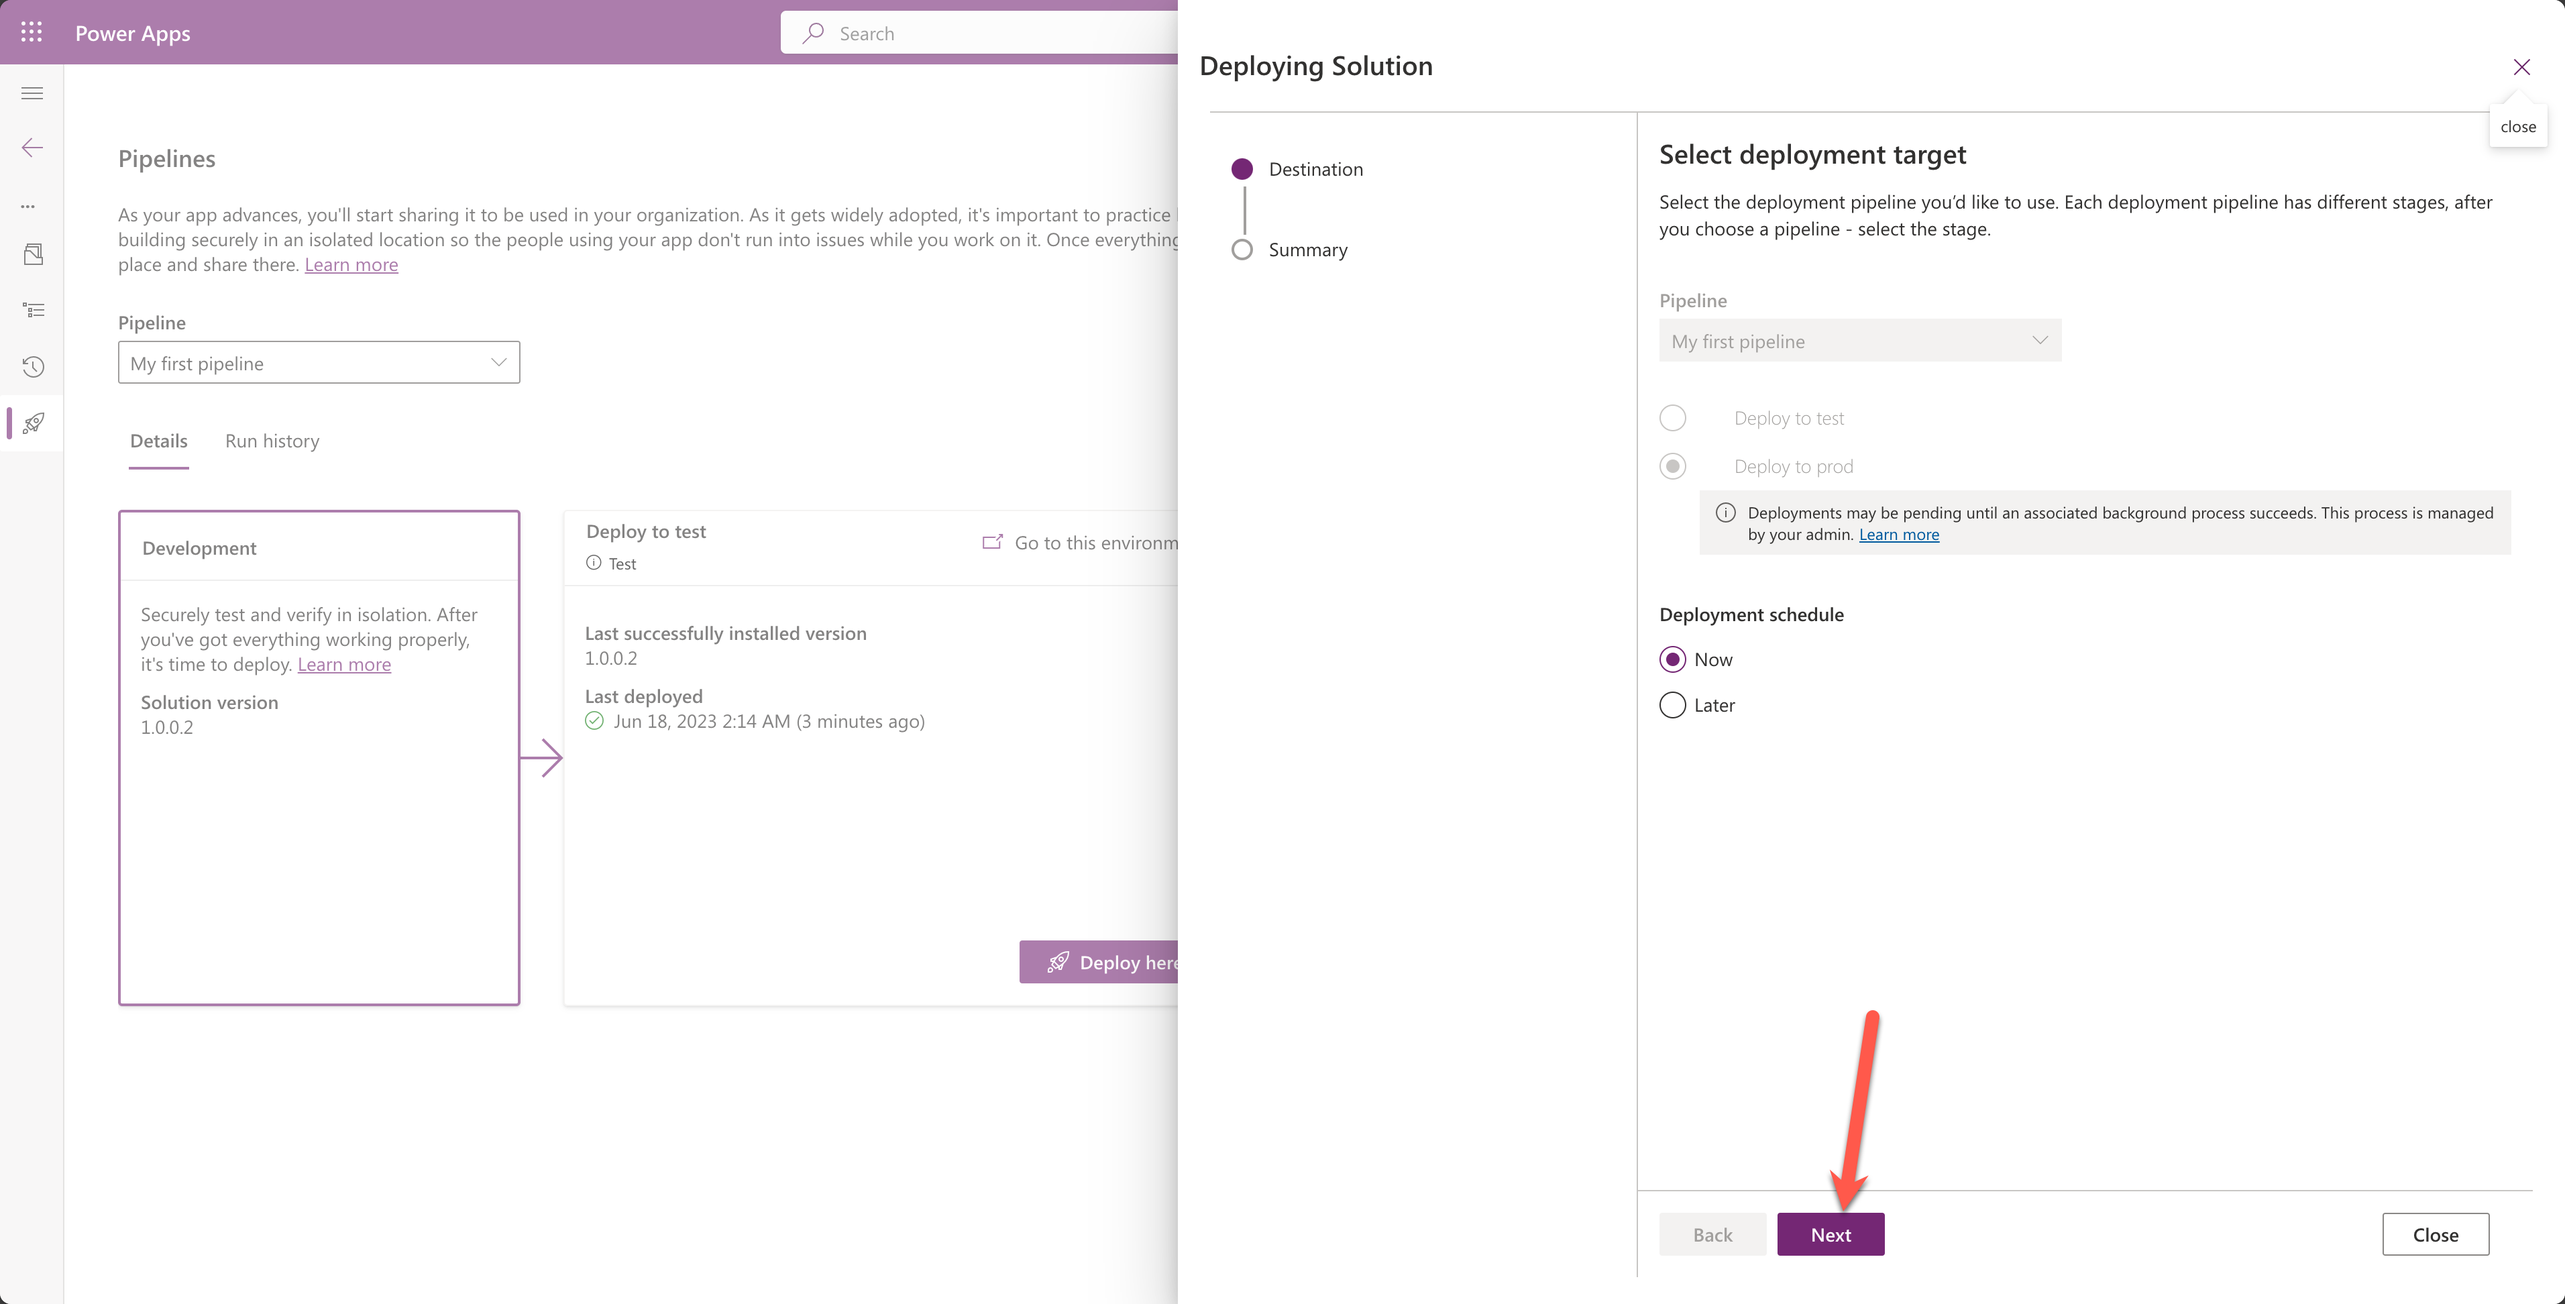
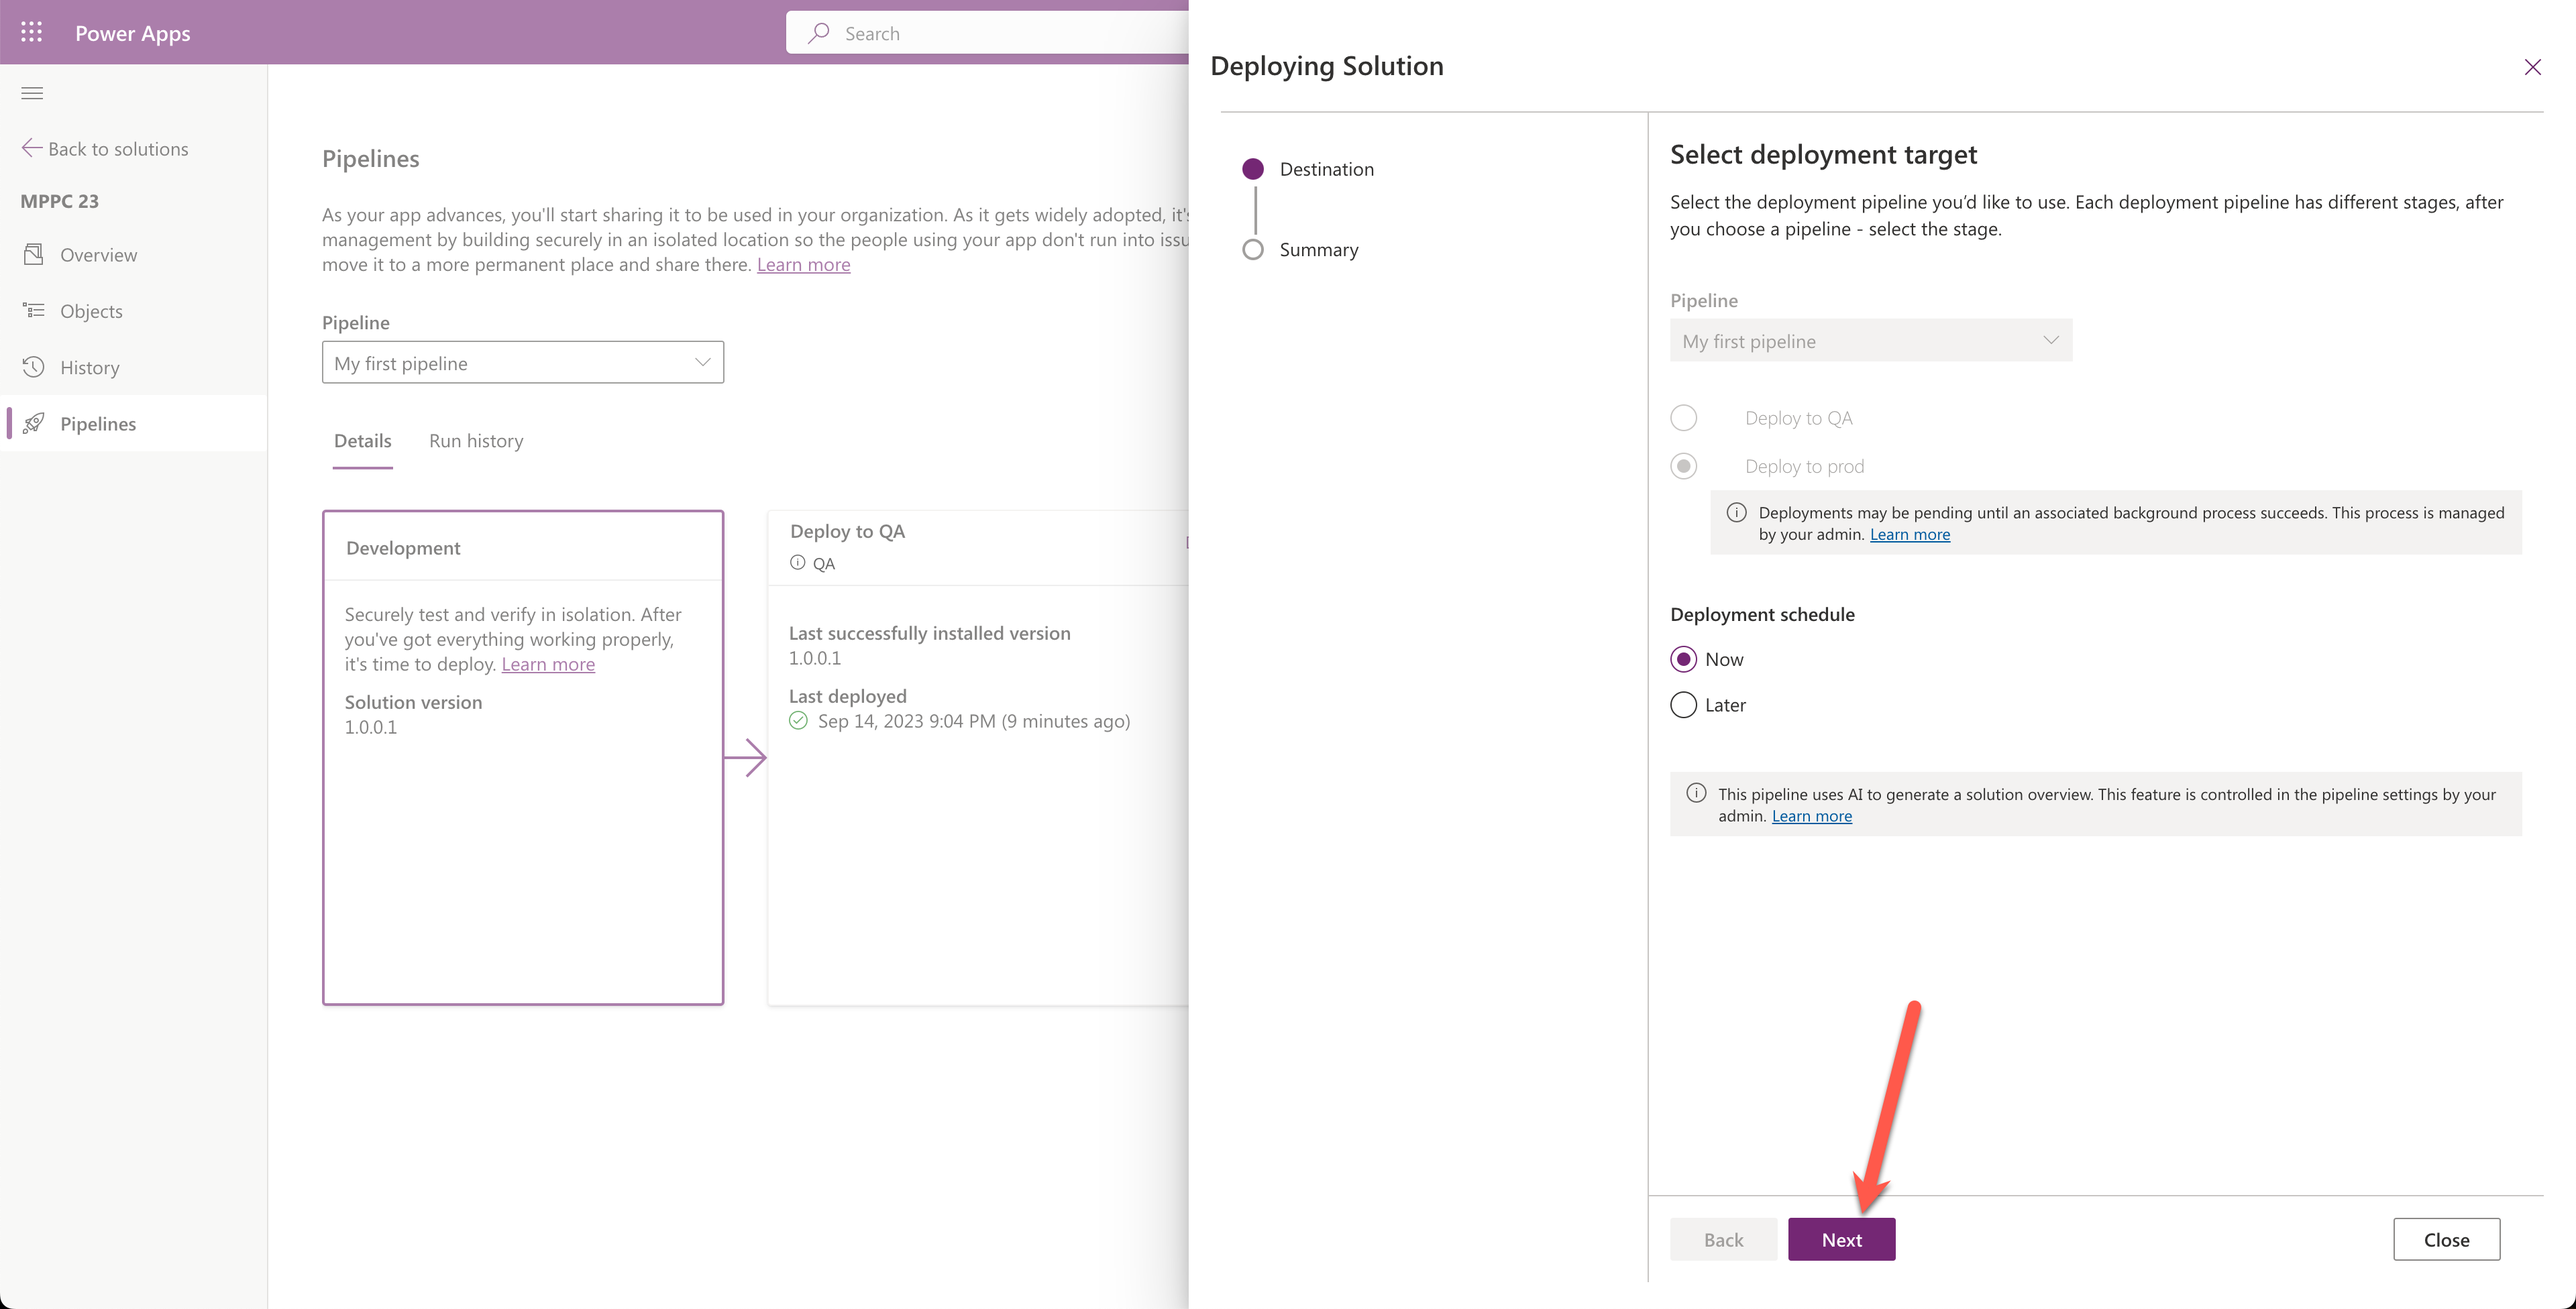
Update images lab 4

diff --git a/lab4/README.md b/lab4/README.md
@@ -209,9 +209,21 @@ In this task, you are going to find out if the approval you configured in the la
 
     ![](./assets/run-deploy-to-prod-approval-select-target.png)  
 
-1. The next screen will be a bit different from our last try, it will now show a summary of the deployment. Fill in some deployment notes, like for instance: `Second deployment of the Mixed Reality solution` and select the purple **Deploy** button
+1. Leave everything on default and select the purple Next button on the bottom of the sidebar
 
-    ![](./assets/run-deploy-to-prod-deployment-notes.png)
+    This will lead you to the next section called `Summary`. Here you can find a bunch of info about the solution you are about to deploy to the QA environment. It also shows an AI suggested solution overview
+
+    ![](./assets/run-first-pipeline-summary-ai-prod.png)
+
+    When you're happy with that AI generated solution overview, select the **Apply** button below the AI suggested solution overview
+
+    Now the AI suggested solution overview is added in the `Deployment notes` box
+
+    ![](./assets/run-first-pipeline-ai-generated-description-approved-prod.png)
+
+1. Check the AI suggested solution overview to make sure it doesn't include any errors and correct where needed
+
+1. Select the purple **Deploy** button
 
 1. Next, you will see the following screen, that shows a yellow box which states that `Your request to deploy here is pending.`
 
